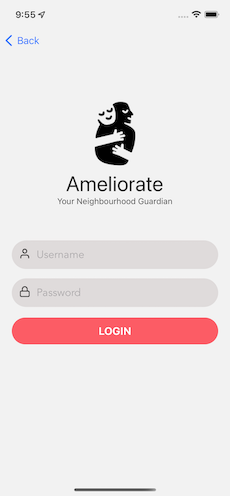
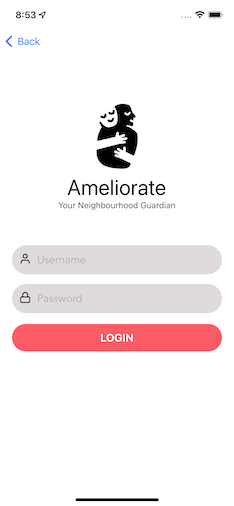
change background color of admin login scree

diff --git a/app/screens/LoginScreen.js b/app/screens/LoginScreen.js
@@ -10,6 +10,7 @@ import ErrorMessage from '../components/ErrorMessage';
 import { getTokenAPI } from '../functions/apiFunctions';
 import LoginTextInput from '../components/LoginTextInput';
 import { removeUserID } from '../functions/secureStoreFunctions';
+import colors from '../config/colors';
 
 const validationSchema = Yup.object().shape({
   username: Yup.string().required().label('Username'),
@@ -97,7 +98,8 @@ export default function LoginScreen() {
 
 const styles = StyleSheet.create({
   screen: {
-    // flex: 1,
+    backgroundColor: colors.white,
+    flex: 1,
   },
   container: {
     padding: 20,
